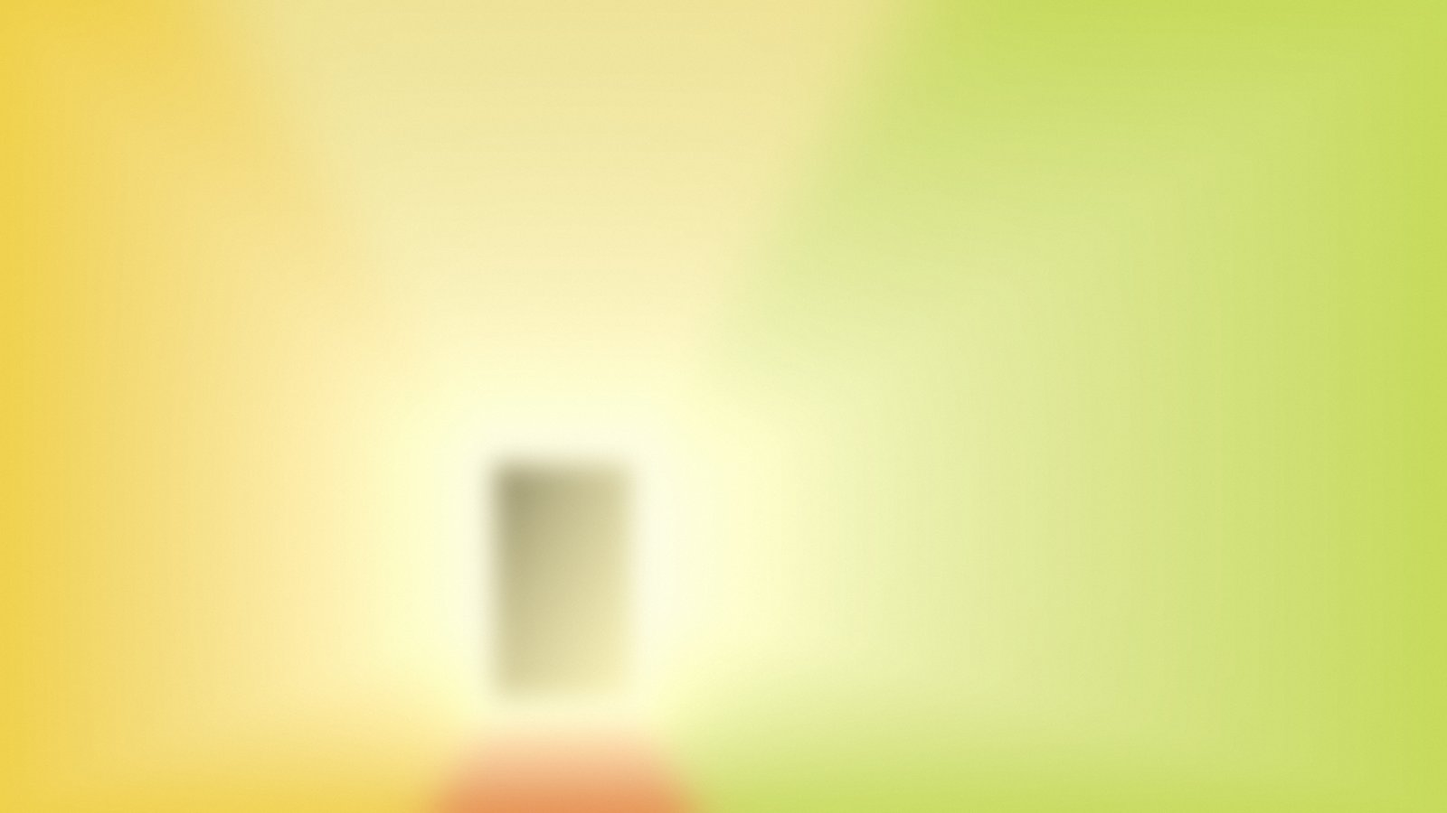
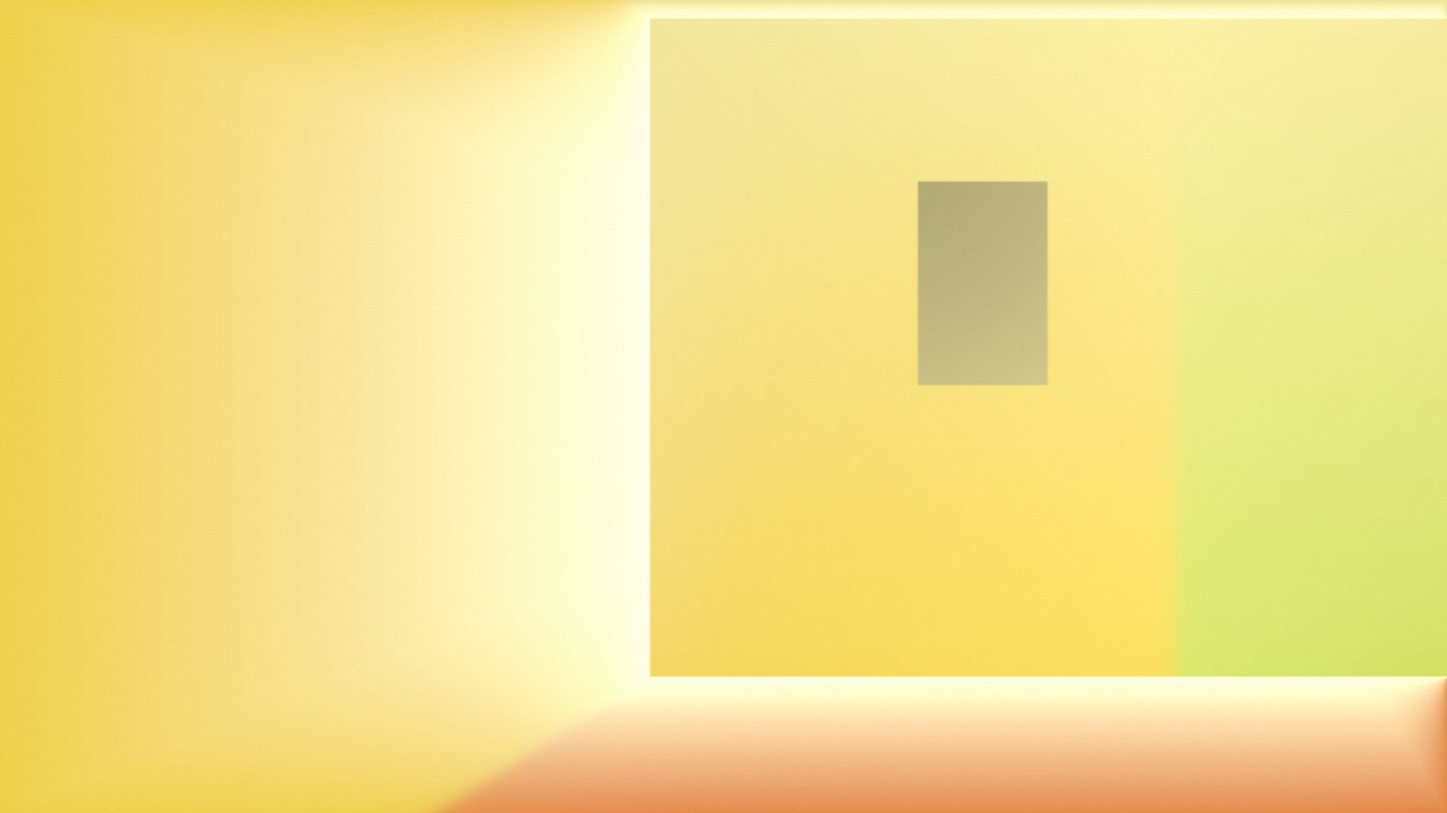
Rooms with hard and soft edges and more shapes; bench with docked controls; the sheet gains design-system cards
Rooms: three layouts (corridor, back wall with an opening, corner),
crisp openings that are rectangles, slots or arches, an optional bright
rim or a nested lit slab, and creases that are knife-sharp or soft per
room. Bloom stays wide and soft; the base blur is now 0, 0.4 % or 1 %.

Bench: two panes, DialKit inline in a right sidebar over the filmstrip,
the desktop scaled to the left column; the None tile no longer crashes
the script.

Sheet: one weather card (the plugin still switches skies); the calendar
hero gets 12px between the numeral and the month, in the render and the
plugin; the lock wordmark is Marvin; new cards for the type scale,
colour tokens, buttons with states, fields and toggles, the icon set
and a toast.

Claude-Session: https://claude.ai/code/session_017caxMJD9sdbPw1WF3LGrYR

diff --git a/plugins/marvin.clock/Panel.qml b/plugins/marvin.clock/Panel.qml
@@ -290,7 +290,7 @@ Panel {
             Row {
               id: heroRow
               anchors.left: parent.left
-              spacing: Style.spacing.xs
+              spacing: Style.spacing.md   // the day numeral and the month need air between them
 
               Text {
                 id: heroDay

diff --git a/tools/previews/build.py b/tools/previews/build.py
@@ -60,7 +60,7 @@ ICONS = {
  "home": '<path d="M4 11l8-7 8 7v9H4z"/>', "clock": '<circle cx="12" cy="12" r="9"/><path d="M12 7v5l3 2"/>',
  "star": '<path d="M12 3l2.8 6 6.2.6-4.7 4.3 1.4 6.1L12 16.8 6.3 20l1.4-6.1L3 9.6 9.2 9z"/>',
  "network": '<circle cx="12" cy="5" r="2"/><circle cx="5" cy="19" r="2"/><circle cx="19" cy="19" r="2"/><path d="M12 7v5M12 12l-6 5M12 12l6 5"/>',
- "trash": '<path d="M4 7h16M9 7V4h6v3M6 7l1 13h10l1-13"/>', "moon": '<path d="M20 14.5A8 8 0 0 1 9.5 4a8 8 0 1 0 10.5 10.5z"/>', "lock": '<rect x="5" y="11" width="14" height="10" rx="2"/><path d="M8 11V7a4 4 0 0 1 8 0v4"/><circle cx="12" cy="16" r="1.2" fill="currentColor" stroke="none"/>', "download": '<path d="M12 4v12M7 11l5 5 5-5M4 20h16"/>',
+ "trash": '<path d="M4 7h16M9 7V4h6v3M6 7l1 13h10l1-13"/>', "moon": '<path d="M20 14.5A8 8 0 0 1 9.5 4a8 8 0 1 0 10.5 10.5z"/>', "check": '<path d="M5 12l5 5L20 7"/>', "lock": '<rect x="5" y="11" width="14" height="10" rx="2"/><path d="M8 11V7a4 4 0 0 1 8 0v4"/><circle cx="12" cy="16" r="1.2" fill="currentColor" stroke="none"/>', "download": '<path d="M12 4v12M7 11l5 5 5-5M4 20h16"/>',
 }
 def ic(name, size=16, sw=1.75):
     return f'<svg class="i" width="{size}" height="{size}" viewBox="0 0 24 24" fill="none" stroke="currentColor" stroke-width="{sw}" stroke-linecap="round" stroke-linejoin="round">{ICONS[name]}</svg>'
@@ -111,7 +111,7 @@ BASE_CSS = """
 .hair.acc i{background:var(--accent)}
 .card{background:var(--raised);border-radius:24px;padding:24px;display:flex;flex-direction:column;gap:24px;border:1px solid rgba(var(--fg-rgb),.10);box-shadow:0 8px 32px rgba(0,0,0,var(--sh))}
 .card .hd{height:32px;display:flex;align-items:center;justify-content:space-between;font-size:16px;font-weight:500}.card .hd span{font-size:12px;color:var(--muted);font-weight:400}
-.card .hero{display:flex;align-items:flex-start;gap:4px}.card .hero b{font-size:56px;font-weight:400;letter-spacing:-.03em;font-variant-numeric:normal}
+.card .hero{display:flex;align-items:flex-start;gap:12px}.card .hero b{font-size:56px;font-weight:400;letter-spacing:-.03em;font-variant-numeric:normal}
 .card .hero .cap{display:flex;flex-direction:column;gap:4px;margin-top:10px;font-size:15px}.card .hero .cap span{font-size:12px;color:var(--muted)}
 .card .hero .end{margin-left:auto;align-self:center}
 .card .stats{display:grid;grid-template-columns:1fr 1fr;gap:16px 24px}.card .stats div{display:flex;flex-direction:column;gap:4px}.card .stats b{font-size:16px;font-weight:400}.card .stats span{font-size:12px;color:var(--muted)}
@@ -155,6 +155,22 @@ BASE_CSS = """
 .rows{display:flex;flex-direction:column;gap:8px}.row{height:40px;border-radius:20px;display:flex;align-items:center;gap:12px;padding:0 16px}.row .n{flex:1}.row .k{font-size:12px;color:var(--muted)}.row.sel{background:rgba(var(--fg-rgb),var(--a3))}.row.hov{background:rgba(var(--fg-rgb),var(--a2))}
 .note{background:var(--raised);border-radius:24px;padding:24px;display:flex;flex-direction:column;gap:8px;line-height:1.5;border:1px solid rgba(var(--fg-rgb),.10);box-shadow:0 8px 32px rgba(0,0,0,var(--sh))}
 .note .app{display:flex;align-items:center;gap:8px;font-size:12px;color:var(--muted);line-height:1}.note .app .t{margin-left:auto}.note .title{font-size:16px;font-weight:500;margin-top:4px}.note .thumbs{display:flex;gap:8px;margin-top:8px}.note .thumbs span{width:56px;height:56px;border-radius:8px;overflow:hidden}.note .body{color:var(--muted)}
+.spec{display:flex;flex-direction:column;gap:12px}.spec .r{display:flex;align-items:baseline;justify-content:space-between;gap:16px}.spec .r span{font-size:12px;color:var(--muted);white-space:nowrap}
+.spec .d{font-size:56px;font-weight:400;letter-spacing:-.03em;line-height:1}.spec .h{font-size:18px;font-weight:500}.spec .t{font-size:16px;font-weight:500}.spec .b{font-size:14px}.spec .c{font-size:12px;color:var(--muted)}
+.sw{display:grid;grid-template-columns:repeat(4,1fr);gap:12px 8px}.sw div{display:flex;flex-direction:column;gap:6px;font-size:11px;color:var(--muted)}.sw i{display:block;height:40px;border-radius:20px;box-shadow:inset 0 0 0 1px rgba(var(--fg-rgb),.10)}
+.bset{display:flex;flex-direction:column;gap:12px}.bset .row3{display:flex;gap:8px;align-items:center}
+.bt{height:40px;padding:0 20px;border-radius:20px;display:inline-flex;align-items:center;gap:8px;white-space:nowrap;font-size:14px}
+.bt.pri{background:var(--fg);color:var(--raised)}.bt.pri.hov{opacity:.85}.bt.pri.dis{opacity:.35}
+.bt.sec{background:rgba(var(--fg-rgb),var(--a1))}.bt.sec.hov{background:rgba(var(--fg-rgb),var(--a2))}.bt.sec.on{background:rgba(var(--fg-rgb),var(--a3))}.bt.sec.dis{opacity:.4}
+.bt.gho{background:transparent;color:var(--muted)}.bt.gho.hov{background:rgba(var(--fg-rgb),var(--a1));color:var(--fg)}
+.flds{display:flex;flex-direction:column;gap:12px}.fld{height:40px;border-radius:20px;background:rgba(var(--fg-rgb),var(--a1));display:flex;align-items:center;padding:0 16px;gap:8px;color:var(--muted)}
+.fld.foc{background:rgba(var(--fg-rgb),var(--a3));color:var(--fg);box-shadow:0 0 0 1px rgba(var(--fg-rgb),var(--ring))}.fld.err{box-shadow:0 0 0 1px var(--red);color:var(--fg)}.fld .cur{width:1px;height:16px;background:var(--fg)}
+.ctl{display:flex;align-items:center;gap:16px;flex-wrap:wrap;font-size:13px}.ctl div{display:flex;align-items:center;gap:8px}
+.tg{width:40px;height:24px;border-radius:12px;background:rgba(var(--fg-rgb),var(--a3));position:relative}.tg i{position:absolute;top:4px;left:4px;width:16px;height:16px;border-radius:8px;background:var(--raised)}.tg.on{background:var(--accent)}.tg.on i{left:20px}
+.cb{width:18px;height:18px;border-radius:6px;box-shadow:inset 0 0 0 1.5px var(--muted)}.cb.on{background:var(--accent);box-shadow:none;display:flex;align-items:center;justify-content:center;color:#fff}
+.rd{width:18px;height:18px;border-radius:9px;box-shadow:inset 0 0 0 1.5px var(--muted)}.rd.on{box-shadow:inset 0 0 0 5px var(--accent)}
+.icons{display:grid;grid-template-columns:repeat(8,1fr);gap:12px 0;justify-items:center;color:var(--fg)}
+.toast{background:var(--raised);border-radius:24px;padding:16px 16px 16px 24px;display:flex;align-items:center;gap:16px;border:1px solid rgba(var(--fg-rgb),.10);box-shadow:0 8px 32px rgba(0,0,0,var(--sh))}.toast .m{flex:1;display:flex;flex-direction:column;gap:2px}.toast .m span{font-size:12px;color:var(--muted)}
 .osd{width:280px;height:56px;background:var(--raised);border-radius:24px;display:flex;align-items:center;gap:16px;padding:0 24px;border:1px solid rgba(var(--fg-rgb),.10);box-shadow:0 8px 32px rgba(0,0,0,var(--sh))}.osd .hair{flex:1}.osd .n{font-size:16px;font-weight:500;width:2ch;text-align:right}
 """
 
@@ -205,7 +221,7 @@ def widgets(t):
 <div class="fg">{"".join(f'<div class="fd"><svg width="40" height="32" viewBox="0 0 56 44"><path d="M2 8a4 4 0 0 1 4-4h14l4 4h24a4 4 0 0 1 4 4v26a4 4 0 0 1-4 4H6a4 4 0 0 1-4-4z" fill="#e9cf86"/><path d="M2 14h52v24a4 4 0 0 1-4 4H6a4 4 0 0 1-4-4z" fill="#f3dd9a"/></svg><span>{f}</span></div>' for f in ("Desktop","Documents","Downloads","Music","Pictures","Videos"))}</div></div></div>''',
      "picker": f'''<div class="card picker" style="width:352px;gap:16px"><div class="tabs"><span class="on">Screens</span><span>Windows</span><span>Region</span></div>
 <div class="shots"><div class="shot on"><i style="background:url('file://{t["arts"][0][1]}') center/cover"></i>DP-1 · 3840 × 2160</div><div class="shot"><i style="background:url('file://{t["arts"][1][1]}') center/cover"></i>eDP-1 · 2880 × 1800</div></div><span class="go">Share</span></div>''',
-     "lock": f'''<div class="card lock" style="width:352px"><div class="mark">Adam Perlis</div><div class="in">{ic("lock",20)}<span class="dots"><i></i><i></i><i></i><i></i><i></i><i></i></span></div></div>''',
+     "lock": f'''<div class="card lock" style="width:352px"><div class="mark">Marvin</div><div class="in">{ic("lock",20)}<span class="dots"><i></i><i></i><i></i><i></i><i></i><i></i></span></div></div>''',
      "polkit": f'''<div class="card pk" style="width:352px;gap:24px"><div class="row2"><div class="ic">{ic("battery",20)}</div><div class="tt"><b>Authentication required</b><span>Omarchy wants to change the power profile. Enter your password to allow this.</span></div></div><div class="in"><i></i><i></i><i></i><i></i><i></i><i></i></div><div class="btns"><span>Cancel</span><span class="go">Authenticate</span></div></div>''',
      "terminal": f'''<div class="card term" style="width:352px;gap:0;padding:24px"><div><span class="p">❯</span> omarchy theme set marvin
 <span class="c">Theme set to marvin</span>
@@ -217,6 +233,12 @@ def widgets(t):
      "clipboard": f'''<div class="launcher clip" style="width:352px"><div class="field">{ic("search",20)}<div><i>Search clipboard</i></div></div><div class="rows">
 <div class="row sel"><span class="n">Padding equals radius, so content sits at the centre of the corner arc.</span><span class="k">2m</span></div><div class="row"><span class="n">https://github.com/adamperlis/omarchy-marvin</span><span class="k">14m</span></div><div class="row"><span class="n">omarchy theme set marvin-light</span><span class="k">1h</span></div><div class="row"><span class="n">#7aa6ff</span><span class="k">3h</span></div></div></div>''',
      "themes": f'''<div class="card pick" style="width:352px;gap:12px"><div class="hd" style="height:auto">Theme<span>4 of 22</span></div><div class="strip"><div class="th"><i style="background:url('file://{t["arts"][1][1]}') center/cover"></i></div><div class="th on"><i style="background:url('file://{t["arts"][0][1]}') center/cover"></i></div><div class="th"><i style="background:linear-gradient(135deg,#1a1b26,#414868)"></i></div></div><div class="names"><span>Marvin Light</span><span class="on">Marvin</span><span>Tokyo Night</span></div></div>''',
+     "type": f'''<div class="card spec" style="width:352px"><div class="hd">Type scale<span>Inter · 12 to 56</span></div><div class="r"><div class="d">56</div><span>display-large · 400 · −3%</span></div><div class="r"><div class="h">Heading</div><span>18 · 500</span></div><div class="r"><div class="t">Title</div><span>16 · 500</span></div><div class="r"><div class="b">Body, the working size</div><span>14 · 400</span></div><div class="r"><div class="c">Caption and labels</div><span>12 · 400</span></div></div>''',
+     "colour": f'''<div class="card" style="width:352px;gap:16px"><div class="hd">Colour<span>one accent</span></div><div class="sw"><div><i style="background:{t["bg"]}"></i>base {t["bg"]}</div><div><i style="background:{t["raised"]}"></i>raised {t["raised"]}</div><div><i style="background:{t["fg"]}"></i>text {t["fg"]}</div><div><i style="background:{t["muted"]}"></i>muted {t["muted"]}</div><div><i style="background:{t["accent"]}"></i>accent {t["accent"]}</div><div><i style="background:{t["chip"][0]}"></i>chip {t["chip"][0]}</div><div><i style="background:{t["red"]}"></i>error {t["red"]}</div><div><i style="background:{t["green"]}"></i>ok {t["green"]}</div></div></div>''',
+     "buttons": f'''<div class="card bset" style="width:352px;gap:16px"><div class="hd">Buttons<span>normal · hover · pressed</span></div><div class="row3"><span class="bt pri">Save</span><span class="bt pri hov">Save</span><span class="bt pri dis">Save</span></div><div class="row3"><span class="bt sec">Cancel</span><span class="bt sec hov">Cancel</span><span class="bt sec on">Cancel</span></div><div class="row3"><span class="bt gho">{ic("chevron_left",16)}Back</span><span class="bt gho hov">{ic("chevron_left",16)}Back</span><span class="bt sec">{ic("search",16)}</span><span class="bt sec on">{ic("star",16)}</span></div></div>''',
+     "fields": f'''<div class="card flds" style="width:352px;gap:16px"><div class="hd">Fields<span>never an accent ring</span></div><div class="fld">{ic("search",16)}Search</div><div class="fld foc">{ic("search",16)}fire<span class="cur"></span></div><div class="fld err">{ic("lock",16)}••••••<span style="margin-left:auto;font-size:12px;color:var(--red)">Wrong password</span></div><div class="ctl"><div><span class="tg on"><i></i></span>On</div><div><span class="tg"><i></i></span>Off</div><div><span class="cb on">{ic("check",12)}</span>Done</div><div><span class="cb"></span>Open</div><div><span class="rd on"></span></div><div><span class="rd"></span></div></div></div>''',
+     "icons": f'''<div class="card" style="width:352px;gap:16px"><div class="hd">Icons<span>Material · 16 / 20 / 24</span></div><div class="icons">{"".join(ic(n,20) for n in ("apps","search","wifi","bluetooth","volume","battery_full","update","home","clock","star","trash","download","network","lock","sun","cloud","partly","moon","eco","balance","bolt","prev","pause","next"))}</div></div>''',
+     "toast": f'''<div class="toast" style="width:352px">{ic("check",20)}<div class="m">Theme set to Marvin<span>Light · 22 wallpapers</span></div><span class="bt sec" style="height:32px;padding:0 16px;border-radius:16px;font-size:13px">Undo</span></div>''',
      "osd": f'''<div class="osd">{ic("volume",20)}<div class="hair"><i style="width:64%"></i></div><div class="n">64</div></div>''',
     }
 
@@ -316,7 +338,7 @@ html,body{{width:1920px;height:1080px;overflow:hidden}}body{{background:{t["grou
 .mark{{font-size:96px;font-weight:500;letter-spacing:-.03em}}
 .input{{width:280px;height:32px;border-radius:16px;background:rgba({hexrgb(t["raised"])},.85);display:flex;align-items:center;justify-content:center;gap:8px}}
 .input i{{width:8px;height:8px;border-radius:4px;background:var(--fg)}}
-</style></head><body><div class="mark">Adam Perlis</div><div class="input"><i></i><i></i><i></i><i></i></div></body></html>"""
+</style></head><body><div class="mark">Marvin</div><div class="input"><i></i><i></i><i></i><i></i></div></body></html>"""
 
 def workspace(t, fonts):
     """Bar over the wallpaper with one notification: the wallpaper as the ground."""
@@ -346,12 +368,12 @@ def sheet(t, fonts):
     # Three columns in flow, balanced to the same height; the lock card sits
     # at the middle of the middle column.
     cols = [
-        cell("Music", w["media"]) + cell("Launcher", w["launcher"]) + cell("Omarchy menu", w["menu"]) + cell("Notes · Obsidian", w["notes"]) + cell("Theme picker", w["themes"]) + cell("Weather · sunset", w["weather_sunset"]) + cell("Volume", w["osd"]),
-        cell("Battery", w["power"]) + cell("Weather", w["weather"]) + cell("Lock screen", w["lock"]) + cell("Files", w["files"]) + cell("Clipboard", w["clipboard"]) + cell("Terminal", w["terminal"]),
-        cell("Calendar", w["clock"]) + cell("Notification", w["note"]) + cell("Screen share", w["picker"]) + cell("Authentication", w["polkit"]) + cell("Backgrounds", w["mood"]) + cell("Weather · night", w["weather_night"]),
+        cell("Music", w["media"]) + cell("Launcher", w["launcher"]) + cell("Omarchy menu", w["menu"]) + cell("Notes · Obsidian", w["notes"]) + cell("Theme picker", w["themes"]) + cell("Type scale", w["type"]) + cell("Buttons", w["buttons"]) + cell("Toast", w["toast"]),
+        cell("Battery", w["power"]) + cell("Weather", w["weather"]) + cell("Lock screen", w["lock"]) + cell("Files", w["files"]) + cell("Clipboard", w["clipboard"]) + cell("Terminal", w["terminal"]) + cell("Colour", w["colour"]) + cell("Icons", w["icons"]),
+        cell("Calendar", w["clock"]) + cell("Notification", w["note"]) + cell("Screen share", w["picker"]) + cell("Authentication", w["polkit"]) + cell("Backgrounds", w["mood"]) + cell("Volume", w["osd"]) + cell("Fields", w["fields"]),
     ]
     return f"""<!doctype html><html><head><meta charset="utf-8"><style>{font_face(fonts)}{vars_css(t)}{BASE_CSS}
-html,body{{width:1600px;height:2320px;overflow:hidden}}body{{background:{ground};padding:56px 0}}
+html,body{{width:1600px;height:2760px;overflow:hidden}}body{{background:{ground};padding:56px 0}}
 .g{{display:grid;grid-template-columns:352px 352px 352px;gap:0 56px;justify-content:center;align-items:start}}
 .col{{display:flex;flex-direction:column;gap:40px}}
 
@@ -368,7 +390,7 @@ if __name__ == "__main__":
         for name, html, size, dests in (
             ("desktop", desktop(t, a.fonts), (1800, 1012), [out / f"{pre}preview.png"]),
             ("boot", boot(t, a.fonts), (1920, 1080), [out / f"{pre}preview-unlock.png"]),
-            ("widgets", sheet(t, a.fonts), (1600, 2320), [out / f"docs/images/widgets-{tag}.png"]),
+            ("widgets", sheet(t, a.fonts), (1600, 2760), [out / f"docs/images/widgets-{tag}.png"]),
             ("workspace", workspace(t, a.fonts), (1800, 1012), [out / f"docs/images/workspace-{tag}.png"]),
             ("backgrounds", backgrounds(t, a.fonts), (1600, 1100), [out / f"docs/images/backgrounds-{tag}.png"]),
         ):

diff --git a/tools/previews/playground.py b/tools/previews/playground.py
@@ -69,24 +69,31 @@ def main():
 {D["vars"]}
 {desk_css}
 html,body{{margin:0;background:var(--pg-bg);color:var(--pg-fg);font-family:Inter,system-ui,sans-serif;font-size:14px;line-height:1.4;-webkit-font-smoothing:antialiased}}
-.page{{display:flex;flex-direction:column;gap:24px;padding:24px;min-height:100vh;box-sizing:border-box}}
-.head{{display:flex;align-items:baseline;justify-content:space-between;gap:24px;flex-wrap:wrap;padding-right:320px}}
-.head h1{{font-size:16px;font-weight:500;margin:0}}.head p{{margin:0;color:var(--pg-muted);max-width:64ch}}
-.frame{{display:flex;justify-content:center}}
+.page{{display:grid;grid-template-columns:minmax(0,1fr) 336px;grid-template-rows:auto 1fr;gap:24px;padding:24px;min-height:100vh;box-sizing:border-box}}
+.head{{grid-column:1/-1;display:flex;align-items:baseline;gap:16px;flex-wrap:wrap}}
+.head h1{{font-size:16px;font-weight:500;margin:0}}.head p{{margin:0;color:var(--pg-muted);max-width:72ch}}
+.main{{display:flex;flex-direction:column;gap:24px;min-width:0}}
+.side{{display:flex;flex-direction:column;gap:16px;min-width:0;position:sticky;top:24px;align-self:start}}
+.side .panel{{background:var(--pg-raised);border-radius:24px;box-shadow:0 0 0 1px rgba(var(--pg-fg-rgb),.10);overflow:hidden}}
+.side .panel .dk{{padding:8px}}
+.side .panel .dk > *{{position:static !important;width:100% !important;max-width:none !important;box-shadow:none !important}}
+.frame{{display:flex;justify-content:center;min-width:0}}
 .scaler{{position:relative}}
+@media (max-width: 1100px){{.page{{grid-template-columns:1fr}}.side{{position:static;order:-1}}.head{{order:-2}}}}
 .stage{{position:absolute;left:0;top:0;width:1800px;height:1012px;overflow:hidden;border-radius:24px;transform-origin:0 0;box-shadow:0 8px 40px rgba(0,0,0,var(--pg-sh)),0 0 0 1px rgba(var(--pg-fg-rgb),.10);isolation:isolate}}
 .wall{{position:absolute;inset:-48px;background-size:cover;background-position:center;will-change:filter}}
 .scrim{{position:absolute;inset:0;pointer-events:none}}
 .grain{{position:absolute;inset:0;pointer-events:none;mix-blend-mode:overlay;opacity:.18}}
 .tone{{position:absolute;inset:0}}.tone[hidden]{{display:none}}
 .tone .bar{{position:absolute}}
-.strip{{display:grid;grid-template-columns:repeat(auto-fill,minmax(200px,1fr));gap:12px}}
-.film{{all:unset;cursor:pointer;display:flex;flex-direction:column;gap:8px;border-radius:16px;padding:8px;background:var(--pg-raised);box-shadow:0 0 0 1px rgba(var(--pg-fg-rgb),.10);color:var(--pg-fg)}}
+.strip{{display:grid;grid-template-columns:repeat(auto-fill,minmax(148px,1fr));gap:12px}}
+.film{{all:unset;cursor:pointer;display:flex;flex-direction:column;gap:6px;border-radius:14px;padding:6px;background:var(--pg-raised);box-shadow:0 0 0 1px rgba(var(--pg-fg-rgb),.10);color:var(--pg-fg);transition:box-shadow .12s ease,transform .12s ease}}
+.film:hover{{box-shadow:0 0 0 1px rgba(var(--pg-fg-rgb),.24)}}
 .film:focus-visible{{box-shadow:0 0 0 1px rgba(var(--pg-fg-rgb),.24),0 0 0 4px rgba(var(--pg-fg-rgb),.10)}}
 .film.on{{box-shadow:0 0 0 2px var(--pg-accent)}}
 .film img,.film .none{{display:block;width:100%;aspect-ratio:16/9;object-fit:cover;border-radius:10px}}.film .none{{background:linear-gradient(180deg,var(--pg-raised),var(--pg-bg));box-shadow:inset 0 0 0 1px rgba(var(--pg-fg-rgb),.10)}}
-.film .cap{{display:flex;flex-direction:column;gap:2px;padding:0 4px}}.film .cap b{{font-weight:500;font-size:13px}}.film .cap i{{font-style:normal;color:var(--pg-muted);font-size:12px}}
-.film .px{{font-size:11px;color:var(--pg-muted);padding:0 4px 4px;font-variant-numeric:tabular-nums}}.film .px.ok{{color:var(--pg-accent)}}
+.film .cap{{display:flex;flex-direction:column;gap:1px;padding:0 4px}}.film .cap b{{font-weight:500;font-size:13px;white-space:nowrap;overflow:hidden;text-overflow:ellipsis}}.film .cap i{{font-style:normal;color:var(--pg-muted);font-size:11px;white-space:nowrap;overflow:hidden;text-overflow:ellipsis}}
+.film .px{{font-size:11px;color:var(--pg-muted);padding:0 4px 4px;font-variant-numeric:tabular-nums;white-space:nowrap;overflow:hidden;text-overflow:ellipsis}}.film .px.ok{{color:var(--pg-accent)}}
 .readout{{display:grid;grid-template-columns:1fr auto;gap:12px 24px;align-items:center;background:var(--pg-raised);border-radius:24px;padding:16px 24px;box-shadow:0 0 0 1px rgba(var(--pg-fg-rgb),.10)}}
 .readout .who{{display:flex;flex-direction:column;gap:2px}}.readout .who b{{font-weight:500}}.readout .who span{{color:var(--pg-muted);font-size:12px}}
 .readout code{{font-family:'JetBrains Mono',monospace;font-size:12px;color:var(--pg-fg);white-space:nowrap;overflow-x:auto;display:block;grid-column:1/-1;padding:12px 16px;border-radius:12px;background:rgba(var(--pg-fg-rgb),.04)}}
@@ -94,7 +101,8 @@ html,body{{margin:0;background:var(--pg-bg);color:var(--pg-fg);font-family:Inter
 @media (prefers-reduced-motion: no-preference){{.wall{{transition:filter .15s}}}}
 </style>
 <div class="page">
-  <div class="head"><h1>Marvin Wallpaper Bench</h1><p>The desktop as the theme renders it, over a painting you grade live. Blur, saturation, mix toward the ground and grain map one to one onto <code style="font-family:'JetBrains Mono';font-size:12px">tools/background.py</code>; the command below reproduces whatever the panel shows. Tone switches the whole desktop.</p></div>
+  <div class="head"><h1>Marvin Wallpaper Bench</h1><p>The desktop as the theme renders it, over a background you grade live. The command under the desktop reproduces whatever the panel shows.</p></div>
+  <div class="main">
   <div class="frame"><div class="scaler" id="scaler"><div class="stage" id="stage">
     <div class="wall" id="wall"></div>
     <div class="scrim" id="scrim"></div>
@@ -103,18 +111,19 @@ html,body{{margin:0;background:var(--pg-bg);color:var(--pg-fg);font-family:Inter
     <div class="tone tone-dark" id="tone-dark" hidden>{D["body"]}</div>
   </div></div></div>
   <div class="readout"><div class="who" id="who"></div><div class="flag" id="flag"></div><code id="cmd"></code></div>
-  <div class="strip" id="strip">{strip}</div>
+  </div>
+  <div class="side"><div class="panel"><div class="dk" id="dk"></div></div><div class="strip" id="strip">{strip}</div></div>
 </div>
 <script>{dk_js}</script>
 <script>
 (function(){{
   var P = {json.dumps([{k: m[k] for k in ("key","artist","title","year","w","h","eligible")} for m in paintings])};
   var SRC = {{}};
-  document.querySelectorAll('.film').forEach(function(b){{ SRC[b.dataset.key] = b.querySelector('img').src; }});
+  document.querySelectorAll('.film').forEach(function(b){{ var im = b.querySelector('img'); if (im) SRC[b.dataset.key] = im.src; }});
   var GROUND = {{light: "{L["ground"]}", dark: "{D["ground"]}"}};
   var titles = ["None"].concat(P.map(function(m){{ return m.title; }}));
   var RAISED = {{light: "{L["raised"]}", dark: "{D["raised"]}"}};
-  var root = DialKit.createDialRoot({{position: "top-right"}});
+  var root = DialKit.createDialRoot({{mode: "inline", target: document.getElementById('dk'), theme: "system"}});
   var kit = DialKit.createDialKit("Wallpaper", {{
     painting: {{type: "select", options: titles}},
     tone: {{type: "select", options: ["light", "dark"]}},
@@ -141,7 +150,7 @@ html,body{{margin:0;background:var(--pg-bg);color:var(--pg-fg);font-family:Inter
     document.getElementById('tone-dark').hidden = tone !== "dark";
     document.querySelectorAll('#tone-light .win, #tone-light .bar, #tone-light > div[style], #tone-dark .win, #tone-dark .bar, #tone-dark > div[style]').forEach(function(el){{ el.style.visibility = v.windows ? '' : 'hidden'; }});
     document.querySelectorAll('.film').forEach(function(b){{ b.classList.toggle('on', b.dataset.key === m.key); }});
-    who.innerHTML = '<b>' + m.artist + ', <i style="font-style:normal">' + m.title + '</i> (' + m.year + ')</b><span>source ' + m.w + ' × ' + m.h + ' · shown in the ' + tone + ' tone</span>';
+    who.innerHTML = '<b>' + (none ? 'No image: the plain ground' : m.artist + ', <i style="font-style:normal">' + m.title + '</i> (' + m.year + ')') + '</b><span>' + (none ? 'white falling to the base grey' : 'source ' + m.w + ' × ' + m.h) + ' · shown in the ' + tone + ' tone</span>';
     flag.textContent = m.eligible ? 'Full resolution on a 4K screen' : 'Under 3840 wide: a 4K screen would upscale it';
     flag.classList.toggle('ok', m.eligible);
     cmd.textContent = none ? 'tools/background.py --style plain --index 1' : 'tools/background.py --source ' + m.key + '.jpg --name ' + m.key + ' --index 1 --blur ' + frac.toFixed(4) + ' --sat ' + v.saturation.toFixed(2) + ' --mix ' + v.mix.toFixed(2) + ' --grain ' + (v.grain ? '1.6' : '0');
@@ -154,7 +163,7 @@ html,body{{margin:0;background:var(--pg-bg);color:var(--pg-fg);font-family:Inter
     if (kit.setValues) kit.setValues({{painting: title}}); else if (kit.set) kit.set({{painting: title}});
   }});
   function fit(){{
-    var pad = 48, w = Math.min(window.innerWidth - pad, 1800), s = w / 1800;
+    var frame = document.querySelector('.frame'), w = Math.min(frame.clientWidth, 1800), s = w / 1800;
     var sc = document.getElementById('scaler'); sc.style.width = (1800 * s) + 'px'; sc.style.height = (1012 * s) + 'px';
     document.getElementById('stage').style.transform = 'scale(' + s + ')';
   }}

diff --git a/tools/background.py b/tools/background.py
@@ -98,16 +98,34 @@ def _lin_to_srgb(c):
 def _sig(x, k):
     return 1 / (1 + np.exp(-np.clip(x / k, -30, 30)))
 
+def _rect_mask(xx, yy, x0, y0, x1, y1, soft=0.6, shape="rect"):
+    """1 inside the opening. Edges are crisp (a sub-pixel ramp). An arch rounds the top; a slot is just tall."""
+    m = _sig(xx - x0, soft) * _sig(x1 - xx, soft) * _sig(yy - y0, soft) * _sig(y1 - yy, soft)
+    if shape == "arch":
+        cx, r = (x0 + x1) / 2, (x1 - x0) / 2
+        cap = _sig(r - np.sqrt((xx - cx) ** 2 + (yy - (y0 + r)) ** 2), soft)
+        m = np.where(yy < y0 + r, cap * _sig(yy - y0 + r, soft), m)
+    return m
+
 def room(palette, seed, grain=2.5):
-    """A gradient room in perspective: four planes meeting at a far opening, seams softened, light bloomed."""
+    """A gradient room in perspective. Some edges are hard, some are soft; that mix is what makes it read as light."""
     rng = np.random.default_rng(seed)
     w, h = OUT_W // 2, OUT_H // 2
     far, left, right, floor, ceil, door, edge = (_srgb_to_lin(hex_rgb(c)) for c in palette)
-    # the far opening sits off to one side more often than not
-    vx, vy = rng.uniform(0.18, 0.82) * w, rng.uniform(0.28, 0.72) * h
-    dw, dh = rng.uniform(0.05, 0.20) * w, rng.uniform(0.12, 0.34) * h
-    if rng.random() < 0.35: dw, dh = dh * 0.5, dw * 1.7            # a tall slot
-    x0, x1, y0, y1 = vx - dw / 2, vx + dw / 2, vy - dh / 2, vy + dh / 2
+    layout = rng.choice(["corridor", "corridor", "backwall", "corner"])
+    # the vanishing point; a corner room puts it near one edge so only two or three planes show
+    if layout == "corner":
+        vx = (rng.uniform(0.04, 0.14) if rng.random() < 0.5 else rng.uniform(0.86, 0.96)) * w
+        vy = rng.uniform(0.25, 0.75) * h
+    else:
+        vx, vy = rng.uniform(0.18, 0.82) * w, rng.uniform(0.30, 0.70) * h
+    # the far plane: for a corridor it is the opening itself; for a back wall it is a big plane with an opening in it
+    if layout == "backwall":
+        fw, fh = rng.uniform(0.45, 0.80) * w, rng.uniform(0.55, 0.85) * h
+    else:
+        fw, fh = rng.uniform(0.06, 0.22) * w, rng.uniform(0.14, 0.40) * h
+        if rng.random() < 0.35: fw, fh = fh * 0.45, fw * 1.8
+    x0, x1, y0, y1 = vx - fw / 2, vx + fw / 2, vy - fh / 2, vy + fh / 2
     yy, xx = np.mgrid[0:h, 0:w].astype(np.float32) + 0.5
     dx, dy = xx - vx, yy - vy
     eps = 1e-6
@@ -117,31 +135,55 @@ def room(palette, seed, grain=2.5):
     ex = np.where(dx > 0, (w - vx) / (dx + eps), (0 - vx) / (dx - eps))
     ey = np.where(dy > 0, (h - vy) / (dy + eps), (0 - vy) / (dy - eps))
     s_scr = np.minimum(ex, ey)
-    t = np.clip((1.0 - s_rect) / np.maximum(s_scr - s_rect, eps), 0, 1)     # 0 at the opening, 1 at the screen edge
-    inside = _sig(s_rect - 1.0, 0.02)                                           # the opening, with a soft edge
-    # plane membership, softened so the corners of the room read as creases, not cuts
-    side = _sig(sy - sx, 0.09 * np.maximum(s_rect, 0.05))                     # 1 on the side walls
-    lr = _sig(dx, 0.025 * w)                                                    # 1 on the right wall
-    fc = _sig(dy, 0.025 * h)                                                    # 1 on the floor
-    # light: the opening lights what is near it, radially, and the planes darken toward the viewer
-    dist = np.sqrt((np.clip(np.abs(dx) - dw / 2, 0, None) / w) ** 2 + (np.clip(np.abs(dy) - dh / 2, 0, None) / h) ** 2)
-    lit = np.exp(-dist / rng.uniform(0.08, 0.16))
-    g = rng.uniform(0.45, 0.8)
-    depth = t ** g                                                              # 0 at the opening, 1 at the viewer
+    t = np.clip((1.0 - s_rect) / np.maximum(s_scr - s_rect, eps), 0, 1)
+    in_far = _rect_mask(xx, yy, x0, y0, x1, y1, soft=0.6)
+    # creases: each room decides whether its corners are knife-sharp or soft, per crease
+    k_side = rng.choice([0.012, 0.03, 0.14]) * np.maximum(s_rect, 0.05)
+    k_lr, k_fc = rng.choice([0.004, 0.02, 0.05]) * w, rng.choice([0.004, 0.02, 0.05]) * h
+    side = _sig(sy - sx, k_side); lr = _sig(dx, k_lr); fc = _sig(dy, k_fc)
+    dist = np.sqrt((np.clip(np.abs(dx) - fw / 2, 0, None) / w) ** 2 + (np.clip(np.abs(dy) - fh / 2, 0, None) / h) ** 2)
+    lit = np.exp(-dist / rng.uniform(0.08, 0.18))
+    depth = t ** rng.uniform(0.45, 0.8)
+    # the opening inside the far plane (backwall) or the far plane itself (corridor, corner)
+    if layout == "backwall":
+        ow, oh = rng.uniform(0.10, 0.30) * fw, rng.uniform(0.25, 0.55) * fh
+        if rng.random() < 0.4: ow, oh = oh * 0.5, ow * 1.6
+        ox, oy = rng.uniform(x0 + ow, x1 - ow), rng.uniform(y0 + oh, y1 - oh * 0.6)
+        shape = rng.choice(["rect", "rect", "arch"])
+        opening = _rect_mask(xx, yy, ox - ow / 2, oy - oh / 2, ox + ow / 2, oy + oh / 2, 0.6, shape)
+        frame = _rect_mask(xx, yy, ox - ow / 2 - 0.02 * w, oy - oh / 2 - 0.02 * w, ox + ow / 2 + 0.02 * w, oy + oh / 2 + 0.02 * w, 0.6, shape)
+    else:
+        shape = rng.choice(["rect", "rect", "arch"])
+        opening = _rect_mask(xx, yy, x0, y0, x1, y1, 0.6, shape)
+        frame = _rect_mask(xx, yy, x0 - 0.012 * w, y0 - 0.012 * w, x1 + 0.012 * w, y1 + 0.012 * w, 0.6, shape)
+    rim = np.clip(frame - opening, 0, 1) * (rng.random() < 0.5)          # a bright rim around the opening, sometimes
+    nested = rng.random() < 0.35                                             # a dark doorway with a lit slab inside it
+    if nested:
+        cx, cy = (ox, oy) if layout == "backwall" else (vx, vy)
+        cw, ch = (ow, oh) if layout == "backwall" else (fw, fh)
+        inner = _rect_mask(xx, yy, cx - cw * 0.22, cy - ch * 0.10, cx + cw * 0.22, cy + ch * 0.45, 0.6)
     img = np.zeros((h, w, 3), dtype=np.float32)
     for i in range(3):
         wall_c = left[i] * (1 - lr) + right[i] * lr
         vert_c = ceil[i] * (1 - fc) + floor[i] * fc
         plane = wall_c * side + vert_c * (1 - side)
-        # every plane runs from the far light at the opening to its own colour at the viewer,
-        # a little darker at the near edge, and the opening spills light radially on top
         plane = (far[i] * (1 - depth) + plane * depth) * (1 - 0.18 * depth) + far[i] * 0.6 * lit * (1 - depth)
-        dd = np.clip(((xx - x0) / max(dw, 1)) * 0.5 + ((yy - y0) / max(dh, 1)) * 0.5, 0, 1)
+        if layout == "backwall":
+            # the back wall is its own flat plane: a soft vertical gradient, darkening toward its bottom corners
+            v = np.clip((yy - y0) / max(fh, 1), 0, 1)
+            back = (ceil[i] * (1 - v) + wall_c * v) * (0.85 + 0.15 * (1 - np.abs((xx - vx) / max(fw / 2, 1))))
+            plane = plane * (1 - in_far) + back * in_far
+        dd = np.clip(((xx - x0) / max(fw, 1)) * 0.5 + ((yy - y0) / max(fh, 1)) * 0.5, 0, 1)
         door_c = door[i] * (1 - dd) + edge[i] * dd
-        img[..., i] = door_c * inside + plane * (1 - inside)
+        if nested:
+            door_c = door_c * (1 - inner) + (edge[i] * 0.6 + far[i] * 0.4) * inner
+        c = plane * (1 - opening) + door_c * opening
+        c = c * (1 - rim) + edge[i] * rim
+        img[..., i] = c
     im = Image.fromarray((_lin_to_srgb(img) * 255).astype(np.uint8))
+    # bloom: light from the opening, wide and soft, screened over an image whose edges stay where they are
     glow = im.filter(ImageFilter.GaussianBlur(radius=h * 0.10))
-    soft = im.filter(ImageFilter.GaussianBlur(radius=h * 0.016))
+    soft = im.filter(ImageFilter.GaussianBlur(radius=float(h * rng.choice([0.0, 0.004, 0.010]))))
     a = np.asarray(soft, dtype=np.float32); b = np.asarray(glow, dtype=np.float32)
     lum = (0.2126 * b[..., 0] + 0.7152 * b[..., 1] + 0.0722 * b[..., 2]) / 255
     a = 255 - (255 - a) * (255 - b * (0.5 * lum[..., None])) / 255
